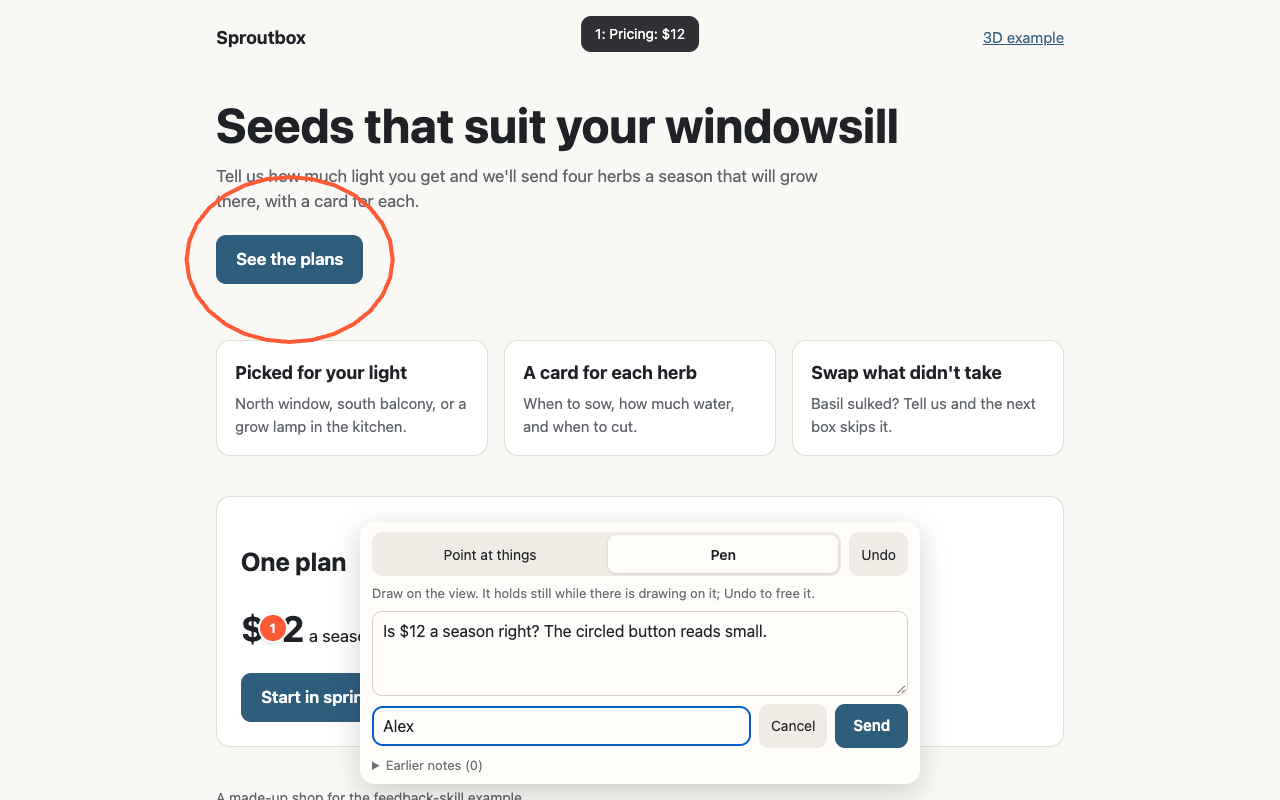
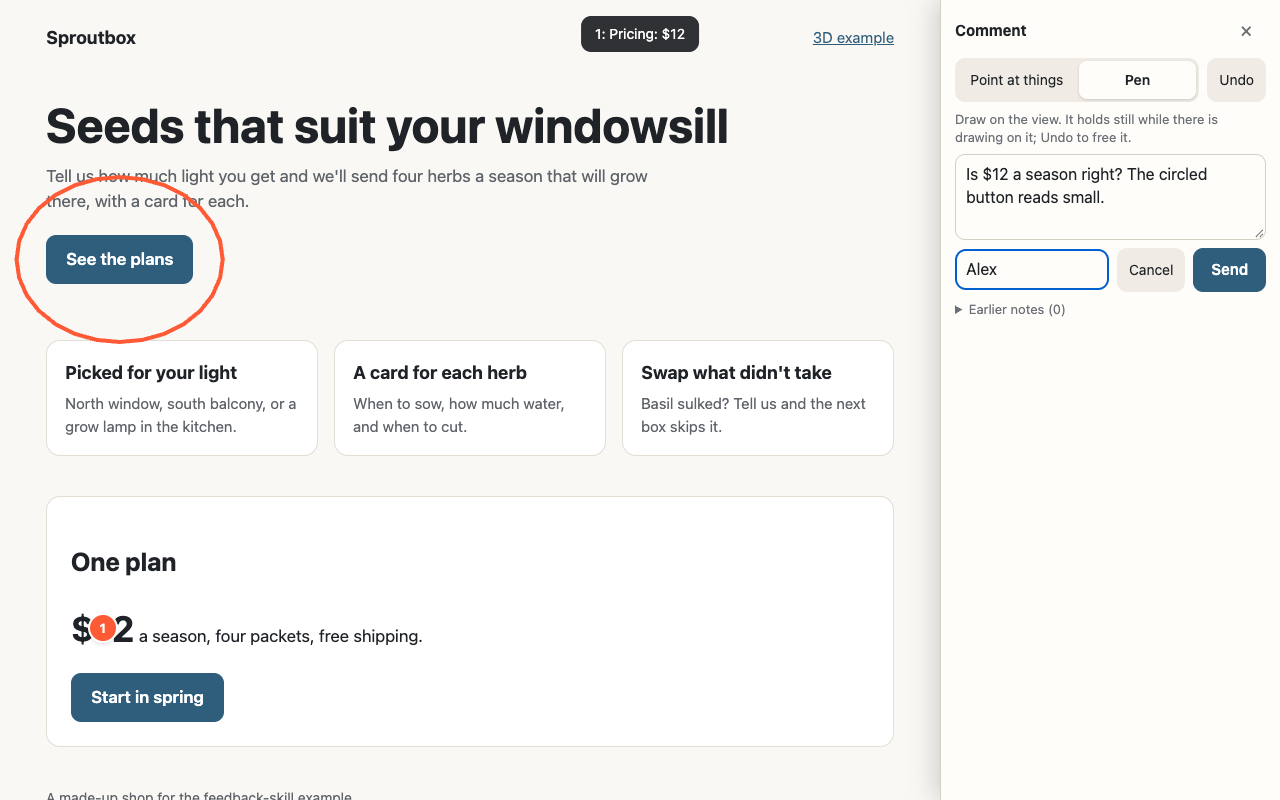
The Comment panel never blocks the page: right sidebar on desktop, foldable bottom sheet on a phone (#2)
comments.css docks the panel (340px right sidebar, --fb-dock-w; at most 40% of
the height on a phone, folding to its header) instead of a card over the middle,
and an ordinary page reflows beside the sidebar. body.fb-noting lets pages move
their own controls. SKILL.md and the README state the rule; README shots retaken
with tools/demo.py.

diff --git a/example/public/comments.js b/example/public/comments.js
@@ -24,6 +24,11 @@
 //                              //   instead of a name box, and the server stamps the author
 //   })
 //
+// The panel never blocks the page: it docks as a right-hand sidebar (var(--fb-dock-w), 340px)
+// on a wide screen and as a foldable bottom sheet, at most 40% of the height, on a phone.
+// While it is open <body> has class fb-noting, so the page can move its own right-hand
+// controls out of the sidebar's way.
+//
 // It returns {open, close, isOpen, tick, refresh}. Call tick() every frame in a 3D render
 // loop so pins follow the camera; on a 2D page scrolling and resizing call it for you.
 // domAdapter() below is a ready adapter for an ordinary page (pins on elements).
@@ -39,6 +44,7 @@ export function mountComments(o) {
   root.innerHTML = `
 <canvas class="fb-ink" aria-hidden="true"></canvas><div class="fb-pins" aria-hidden="true"></div>
 <section class="fb-panel" hidden aria-label="Comment">
+  <div class="fb-head"><b>Comment</b><button type="button" data-act="fold" aria-expanded="true" aria-label="Fold the comment panel">▾</button><button type="button" data-act="close" aria-label="Close">×</button></div>
   <div class="fb-row"><div class="fb-tools" role="group" aria-label="Mark"><button type="button" data-tool="point">Point at things</button><button type="button" data-tool="pen">Pen</button></div><button type="button" class="fb-plain" data-act="undo">Undo</button></div>
   <p class="fb-hint"></p>
   <textarea rows="3" maxlength="4000" placeholder="What should change, or what is this?"></textarea>
@@ -122,8 +128,14 @@ export function mountComments(o) {
 
   function clear() { for (const p of pins) p.dot.remove(); pins = []; strokes = []; undo = []; drawInk(); }
 
+  function fold(on) {
+    panel.classList.toggle('fb-folded', on);
+    const b = $('[data-act=fold]');
+    b.textContent = on ? '▴' : '▾'; b.setAttribute('aria-expanded', String(!on));
+  }
+
   function setOpen(on) {
-    open = on; panel.hidden = !on; button.hidden = on;
+    open = on; panel.hidden = !on; button.hidden = on; fold(false);
     document.body.classList.toggle('fb-noting', on);
     if (on) { tool = 'point'; sizeInk(); refresh(); } else clear();
     sync(); tick();
@@ -161,6 +173,8 @@ export function mountComments(o) {
     sync();
   };
   $('[data-act=cancel]').onclick = () => setOpen(false);
+  $('[data-act=close]').onclick = () => setOpen(false);
+  $('[data-act=fold]').onclick = () => fold(!panel.classList.contains('fb-folded'));
   button.addEventListener('click', () => setOpen(true));
   addEventListener('keydown', e => { if (e.key === 'Escape' && open) setOpen(false); });
   addEventListener('resize', () => { if (open) sizeInk(); tick(); });

diff --git a/example/public/comments.css b/example/public/comments.css
@@ -25,13 +25,32 @@
 }
 .fb-button[hidden] { display: none; }
 
+/* The panel never blocks the page. It docks: a right-hand sidebar on a wide screen, a foldable
+   bottom sheet (at most 40% of the height) on a phone. Never a box in the middle of the content.
+   While it is open, <body> has .fb-noting; move your own right-hand controls by --fb-dock-w. */
+:root { --fb-dock-w: 340px; }
 .fb-panel {
-  position: fixed; left: 50%; transform: translateX(-50%); bottom: max(16px, env(safe-area-inset-bottom));
-  width: min(560px, calc(100% - 32px)); max-height: 70vh; overflow: auto; box-sizing: border-box;
-  display: flex; flex-direction: column; gap: 8px; padding: 10px 12px;
-  background: var(--fb-surface); border-radius: 14px; box-shadow: var(--fb-shadow);
+  position: fixed; top: 0; right: 0; bottom: 0; width: var(--fb-dock-w); max-width: 100%; overflow: auto; box-sizing: border-box;
+  display: flex; flex-direction: column; gap: 8px;
+  padding: max(10px, env(safe-area-inset-top)) 14px max(12px, env(safe-area-inset-bottom));
+  background: var(--fb-surface); border-left: 1px solid var(--fb-line); box-shadow: -6px 0 24px rgb(0 0 0 / .16);
 }
 .fb-panel[hidden] { display: none; }
+.fb-head { display: flex; align-items: center; gap: 4px; }
+.fb-head b { flex: 1; font-size: 15px; }
+.fb .fb-head button { min-width: 40px; min-height: 40px; border-radius: 8px; font-size: 20px; line-height: 1; color: var(--fb-muted); }
+.fb .fb-head [data-act=fold] { display: none; }
+/* an ordinary page reflows beside the sidebar instead of running under it (fixed layers, like a
+   full-window canvas, aren't moved: make room for those with body.fb-noting rules of your own) */
+@media (min-width: 701px) { body.fb-noting { padding-right: var(--fb-dock-w); } }
+@media (max-width: 700px) {
+  .fb-panel {
+    top: auto; left: 0; width: auto; max-height: 40vh; max-height: 40dvh;
+    border-left: 0; border-top: 1px solid var(--fb-line); border-radius: 14px 14px 0 0; box-shadow: 0 -6px 24px rgb(0 0 0 / .16);
+  }
+  .fb .fb-head [data-act=fold] { display: inline-block; }
+  .fb-panel.fb-folded > :not(.fb-head) { display: none; }
+}
 .fb-row { display: flex; gap: 8px; align-items: center; }
 .fb-hint { margin: 0; font-size: 13px; color: var(--fb-muted); }
 .fb-tools { display: flex; flex: 1; background: var(--fb-mist); border-radius: 10px; padding: 3px; gap: 3px; }

diff --git a/skills/feedback/SKILL.md b/skills/feedback/SKILL.md
@@ -53,6 +53,19 @@ and `scripts/comments.py`.
 
 Don't reply "done" before the change is live: the person will go look.
 
+## The comment UI never blocks the main UI
+
+The page is what people are commenting on, so the Comment panel must never cover it. It
+docks at the side: a **right-hand sidebar** on a wide screen (340px, `--fb-dock-w`) and a
+**foldable bottom sheet** on a phone (at most 40% of the height, folding to its header).
+Never a centred modal or a box over the middle of the content, and nothing that stops
+the page being used while the panel is open: people orbit, scroll and tap the page to pin
+things with the panel still open. `comments.css` does this out of the box; keep it that
+way when restyling. While the panel is open `<body>` has `.fb-noting`: move the page's own
+right-hand controls (cards, toolbars, buttons) left by `var(--fb-dock-w)` on wide screens,
+and hide or tuck bottom-edge controls on phones, so nothing of the page hides under it.
+Check both widths with a screenshot before shipping.
+
 ## Adding it to a site
 
 1. **Server.** Copy `example/worker.js`, `example/rules.js` and
@@ -72,6 +85,8 @@ Don't reply "done" before the change is live: the person will go look.
    screen), `frame` (render, return the canvas), `view`/`goTo`/`link` (the camera), `hold`
    (disable the orbit controls), and calls `tick()` in the render loop. Give pieces
    `{id, label}` in glTF extras so a pin says what it's on.
+   Make room for the docked panel (above): `body.fb-noting` rules for the page's own
+   right-hand and bottom-edge controls. Don't restyle `.fb-panel` into a centred modal.
    Behind a login (Cloudflare Access): `vars.AUTHOR_FROM_ACCESS = "1"` and
    `mountComments({..., me: './api/me'})`, so notes carry the signed-in email instead of a
    typed name (README, "Signed-in sites").
@@ -117,6 +132,14 @@ Don't reply "done" before the change is live: the person will go look.
 10. **Two servers can share a port.** `localhost` may resolve to IPv6 while `wrangler dev`
     listens on IPv4 127.0.0.1. If the page 404s with someone else's error page, check
     `lsof -iTCP:PORT -sTCP:LISTEN` and use `127.0.0.1`.
+
+11. **A panel in the middle blocks the very thing being commented on.** The first version
+    was a card at the bottom centre, up to 70% of the height; on a phone it covered the
+    model and on desktop it sat on the view (and a tap meant for a pin opened the page's
+    own info card too). Kyle: "the comments UI should be on the right sidebar, not blocking
+    the center." It docks now: right sidebar on desktop, foldable bottom sheet on a phone.
+    While commenting, the page should treat a tap as a pin only (check `isOpen()` before
+    its own click handling).
 
 ## Data
 

diff --git a/README.md b/README.md
@@ -27,6 +27,15 @@ white. `tools/overlay.py` screenshots the page at the note's viewport and puts t
 
 ![The reply under the note](docs/img/desktop-2d-reply.png)
 
+## It never blocks the page
+
+The Comment panel docks at the side of the page instead of sitting on it: a right-hand
+sidebar (340px) on a wide screen, a bottom sheet of at most 40% of the height on a phone
+that folds down to its header. You keep orbiting, scrolling and tapping the page with it
+open; that's how pins get dropped. Never turn it into a centred modal. While it's open,
+`<body>` has the class `fb-noting`, so a page can move its own right-hand controls out of
+the way by `var(--fb-dock-w)`.
+
 ## The loop
 
 1. **The person** opens Comment, taps things (numbered pins) or draws (Pen), writes a note,
@@ -120,7 +129,7 @@ pricing page".
 
 | Path | What it does |
 | --- | --- |
-| `example/public/comments.js`, `comments.css` | the button, panel, pins, pen, picture, earlier notes; `domAdapter()` for plain pages |
+| `example/public/comments.js`, `comments.css` | the button, the docked panel (right sidebar / phone bottom sheet), pins, pen, picture, earlier notes; `domAdapter()` for plain pages |
 | `example/public/index.html`, `scene.js` | a three.js desk with a Comment button |
 | `example/public/flat.html` | a plain page with one |
 | `example/public/pages.json` | the catalog: the only pages the server takes notes for |
